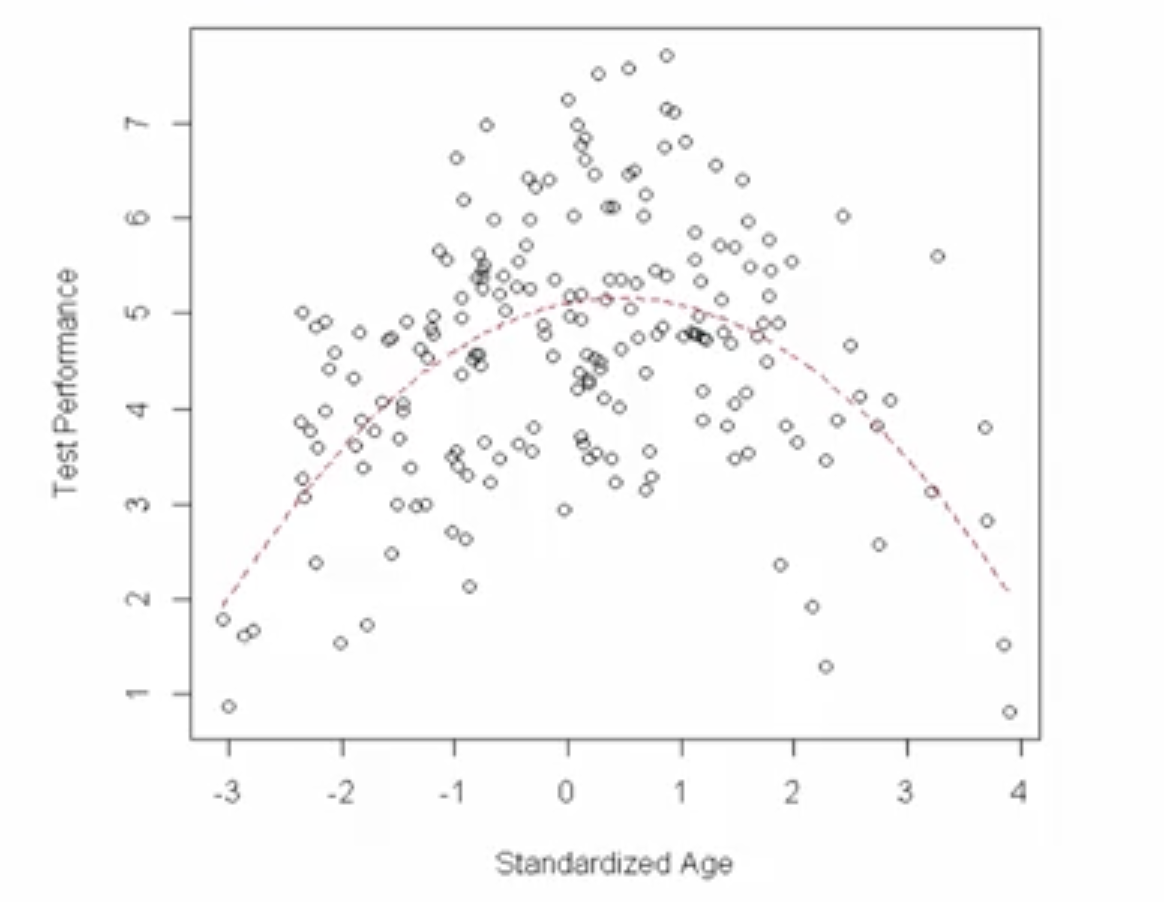
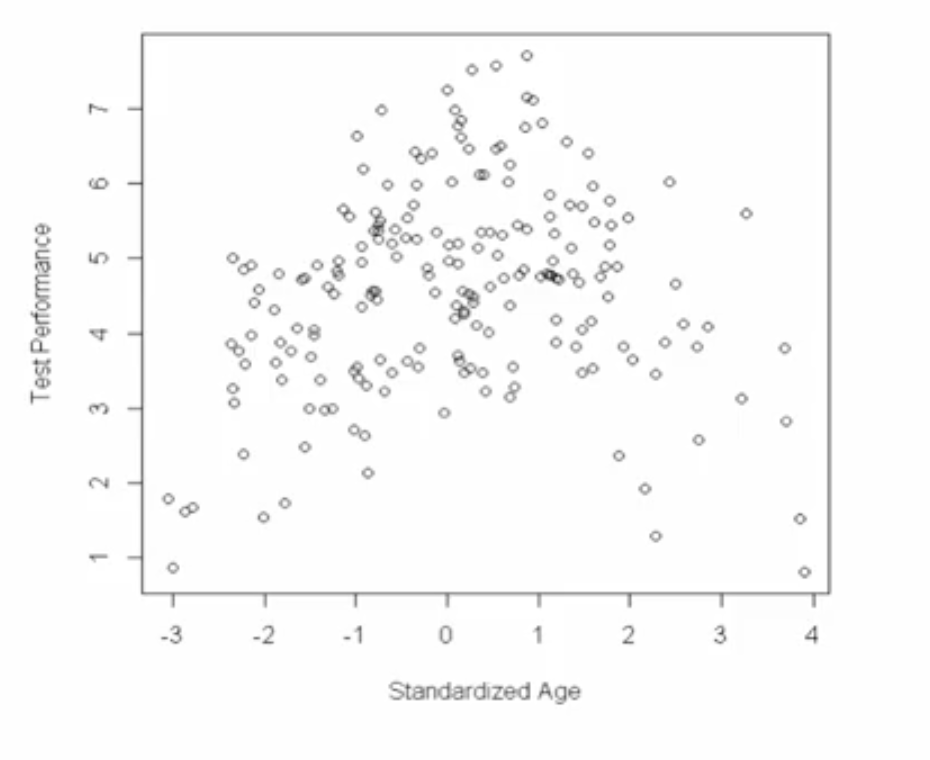
reworking on 01_what_do_we_mean_by_fitting_models_to_data

diff --git a/03_specializations/01_fitting_statistical_models_to_data_with_python/01_considerations_for_statistical_modeling/01_what_do_we_mean_by_fitting_models_to_data.md b/03_specializations/01_fitting_statistical_models_to_data_with_python/01_considerations_for_statistical_modeling/01_what_do_we_mean_by_fitting_models_to_data.md
@@ -42,27 +42,32 @@ Before modeling, we always explore the data visually.
     <img src="./images/0101.png" width="500">
 
 2.  **Relationship between Age and Performance:** A scatter plot of `performance` vs. `age` visually confirms our theory. We can see the inverted U-shape.
-    {{ Insert screenshot of the scatter plot of performance vs. age here }}
+
+    <img src="./images/0102.png" width="500">
 
 ### Modeling Approach 1: The Mean-Only Model (Unconditional)
 
 This is the simplest possible model. It ignores all predictors and just aims to describe the overall distribution of the outcome.
 
-**The Model:**
-We state that each student's performance score is the overall mean plus some random, individual error.
+#### The Model:
+We state that each student's performance score is the overall mean plus some random, individual error.  
+
 $$
 \text{Performance}_i = M + E_i
 $$
-**The Parameters:**
+
+#### The Parameters:
 1.  $M$: The marginal (overall) mean of test performance.
 2.  $\sigma^2$: The variance of the errors ($E_i$), which represents the variance in test performance across all students.
 
-**The Assumption:**
-We assume the errors are normally distributed with a mean of 0.
+#### The Assumption:
+We assume the errors are normally distributed with a mean of 0.  
+
 $$
 E_i \sim N(0, \sigma^2)
 $$
-**The Fit:**
+
+### The Fit:
 After fitting the model, we get estimates:
 *   Estimated Mean ($\hat{M}$): 4.57 points.
 *   Estimated Variance ($\hat{\sigma}^2$): 1.82.
